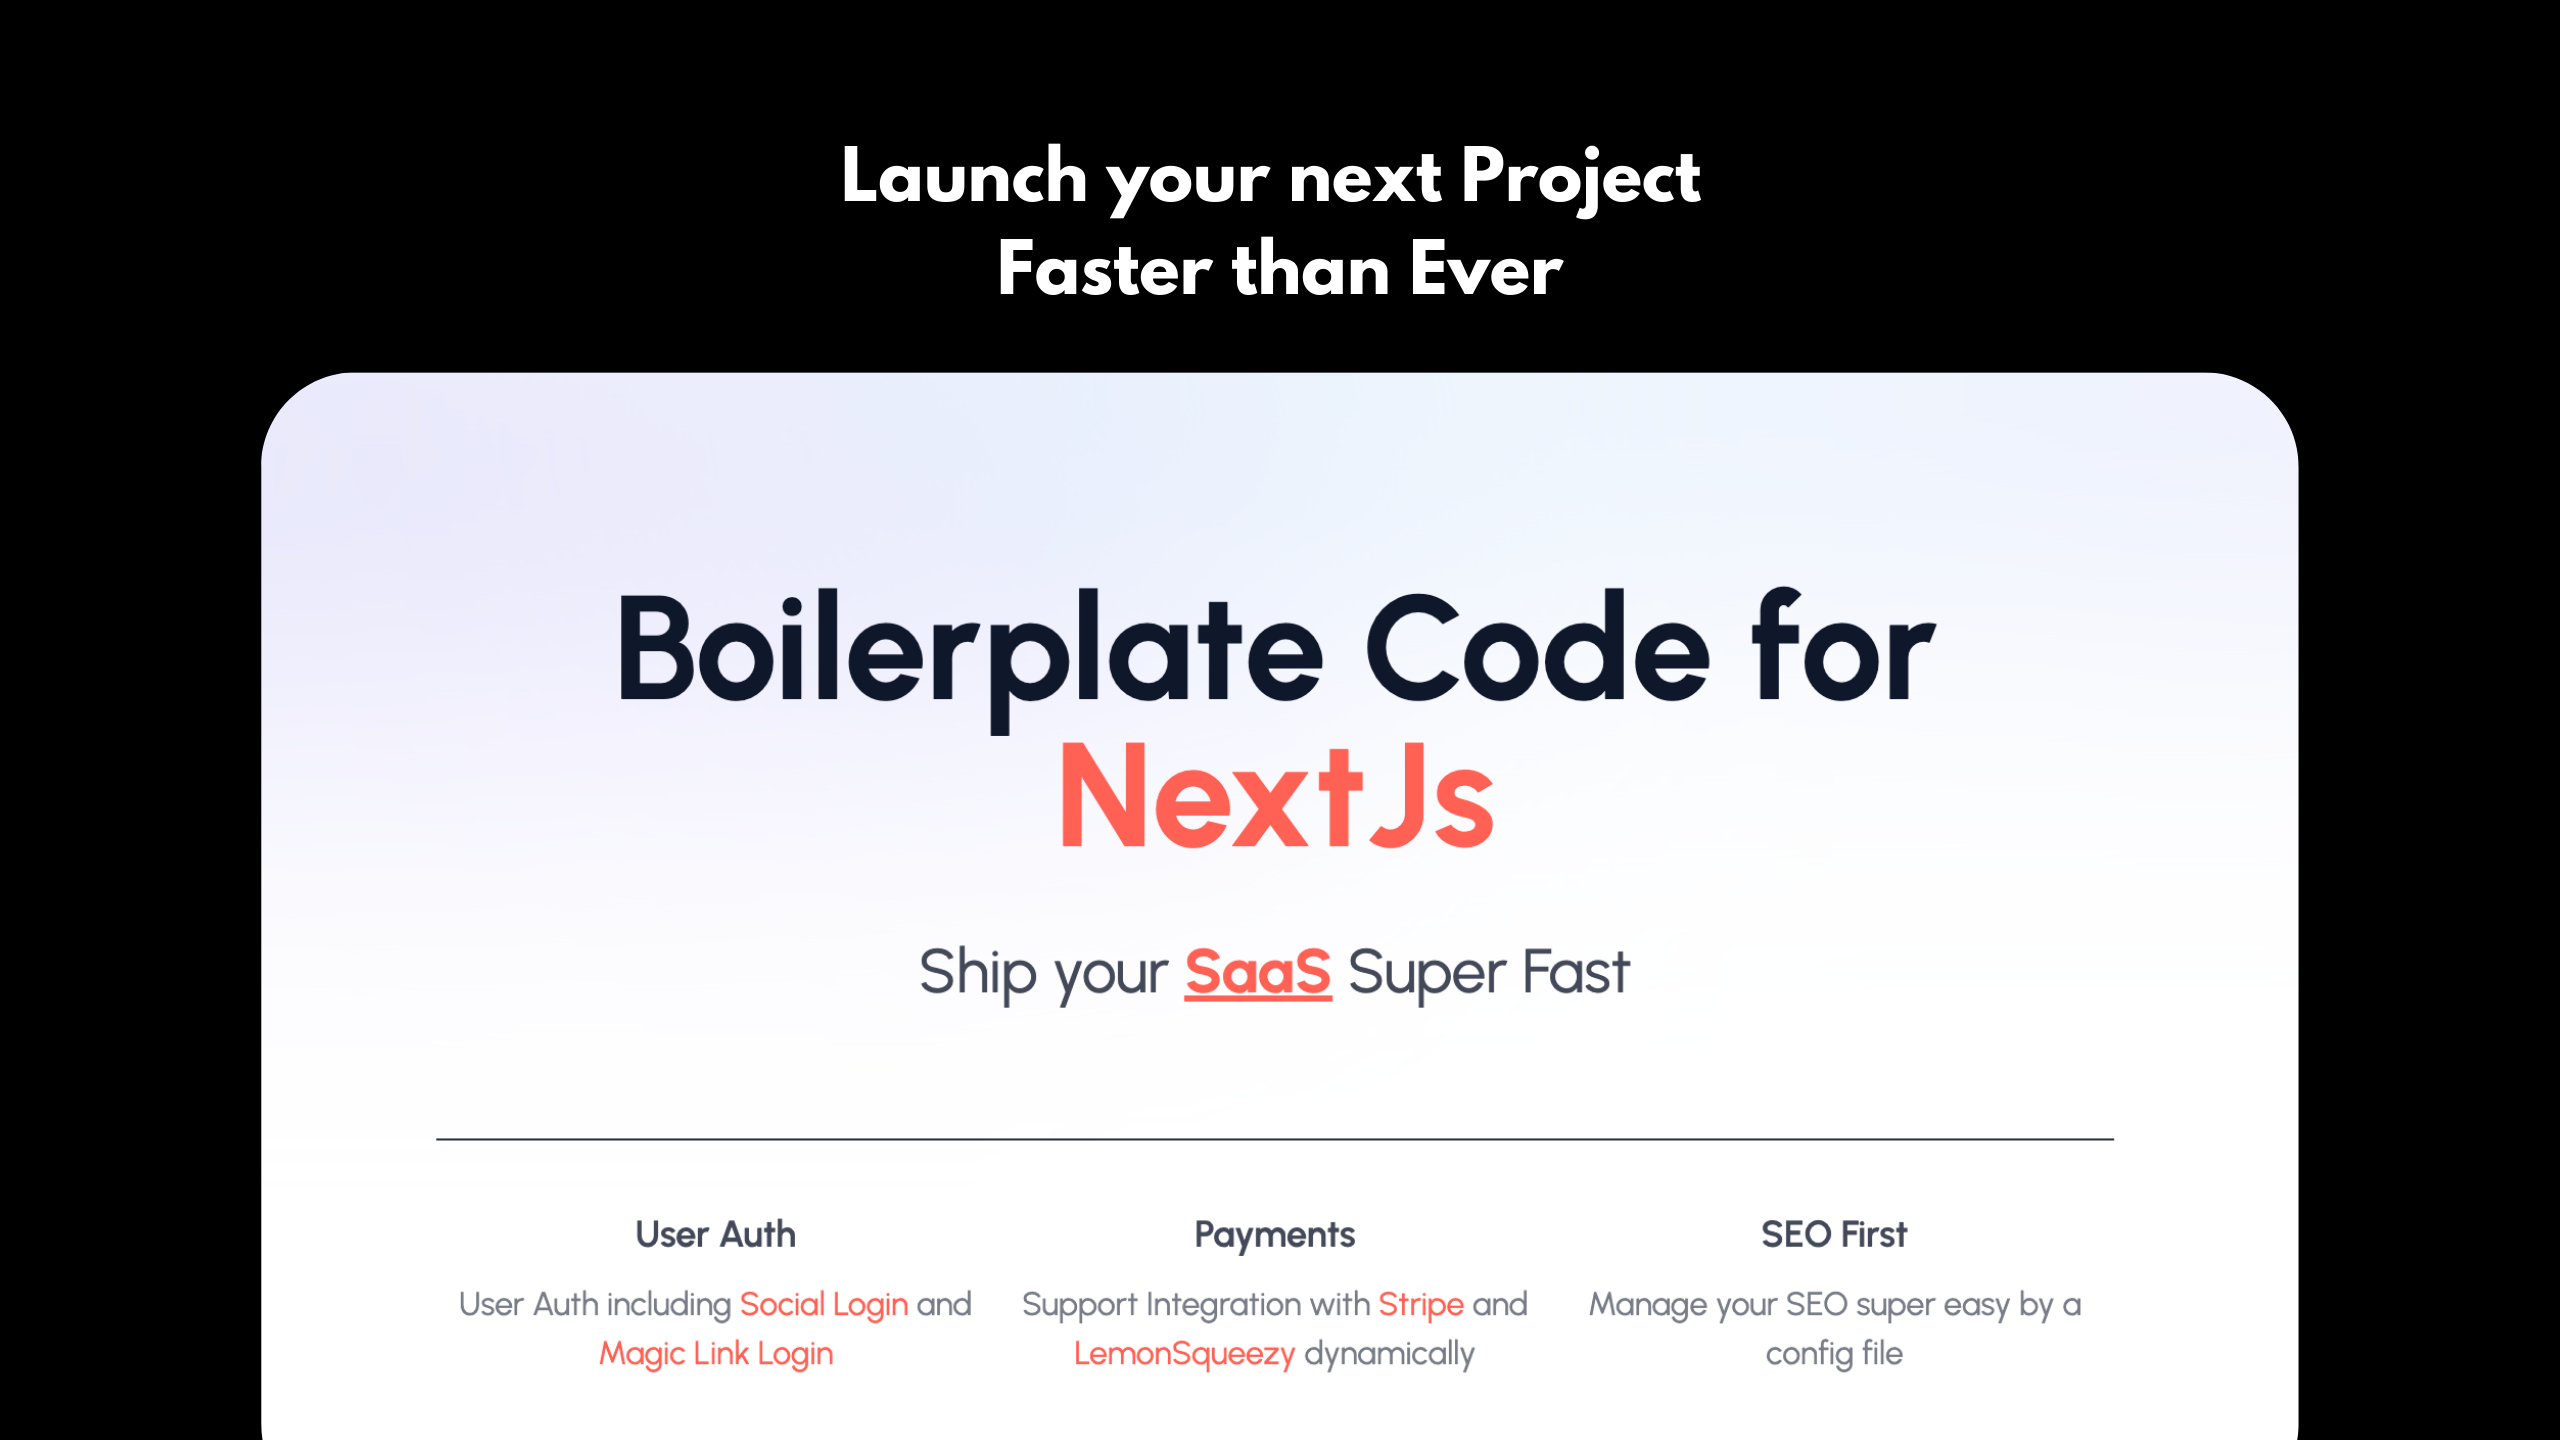
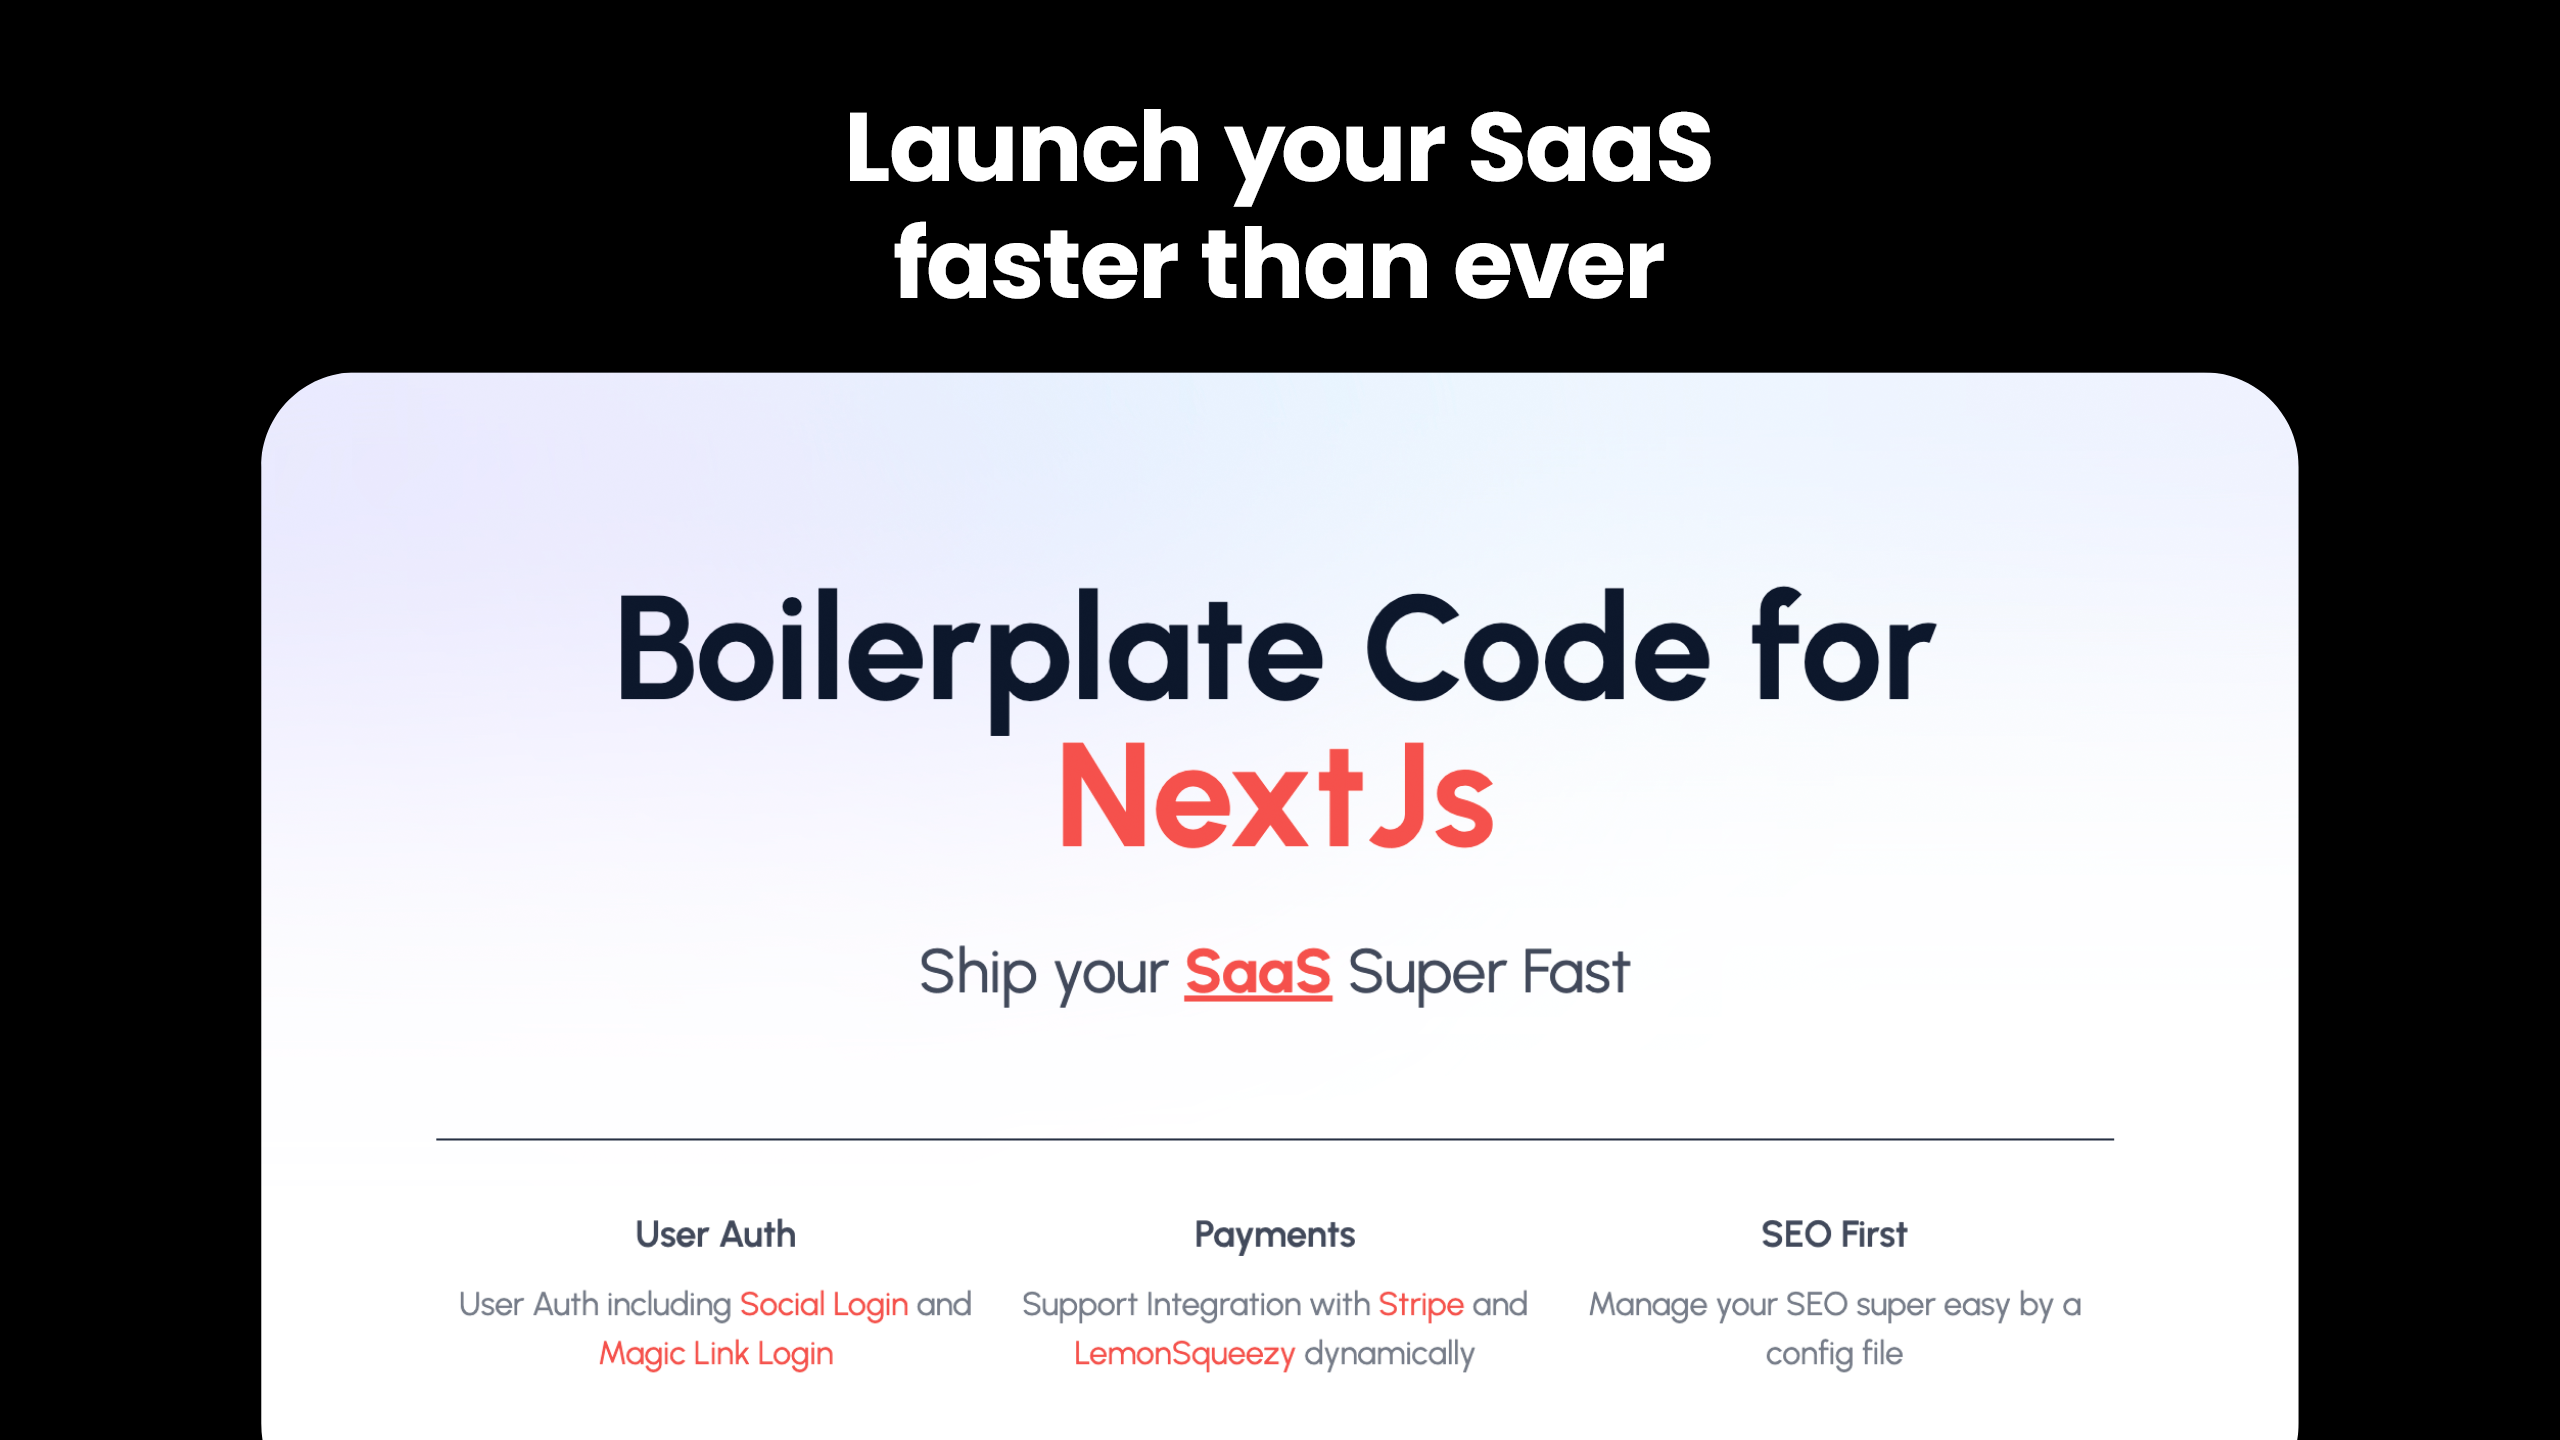
fixing og image

Changed region(s): [[0.3125, 0.0625, 0.6875, 0.2188]]

diff --git a/components/landingPage/landingHero.js b/components/landingPage/landingHero.js
@@ -59,7 +59,7 @@ export default function LandingHero() {
               </h1>
 
               <p className="mt-8 text-gray-700 dark:text-gray-300 text-3xl">
-                Ship your{" "}
+                Ship Your{" "}
                 <span className="font-bold text-primary underline">SaaS</span>{" "}
                 Super Fast
               </p>
